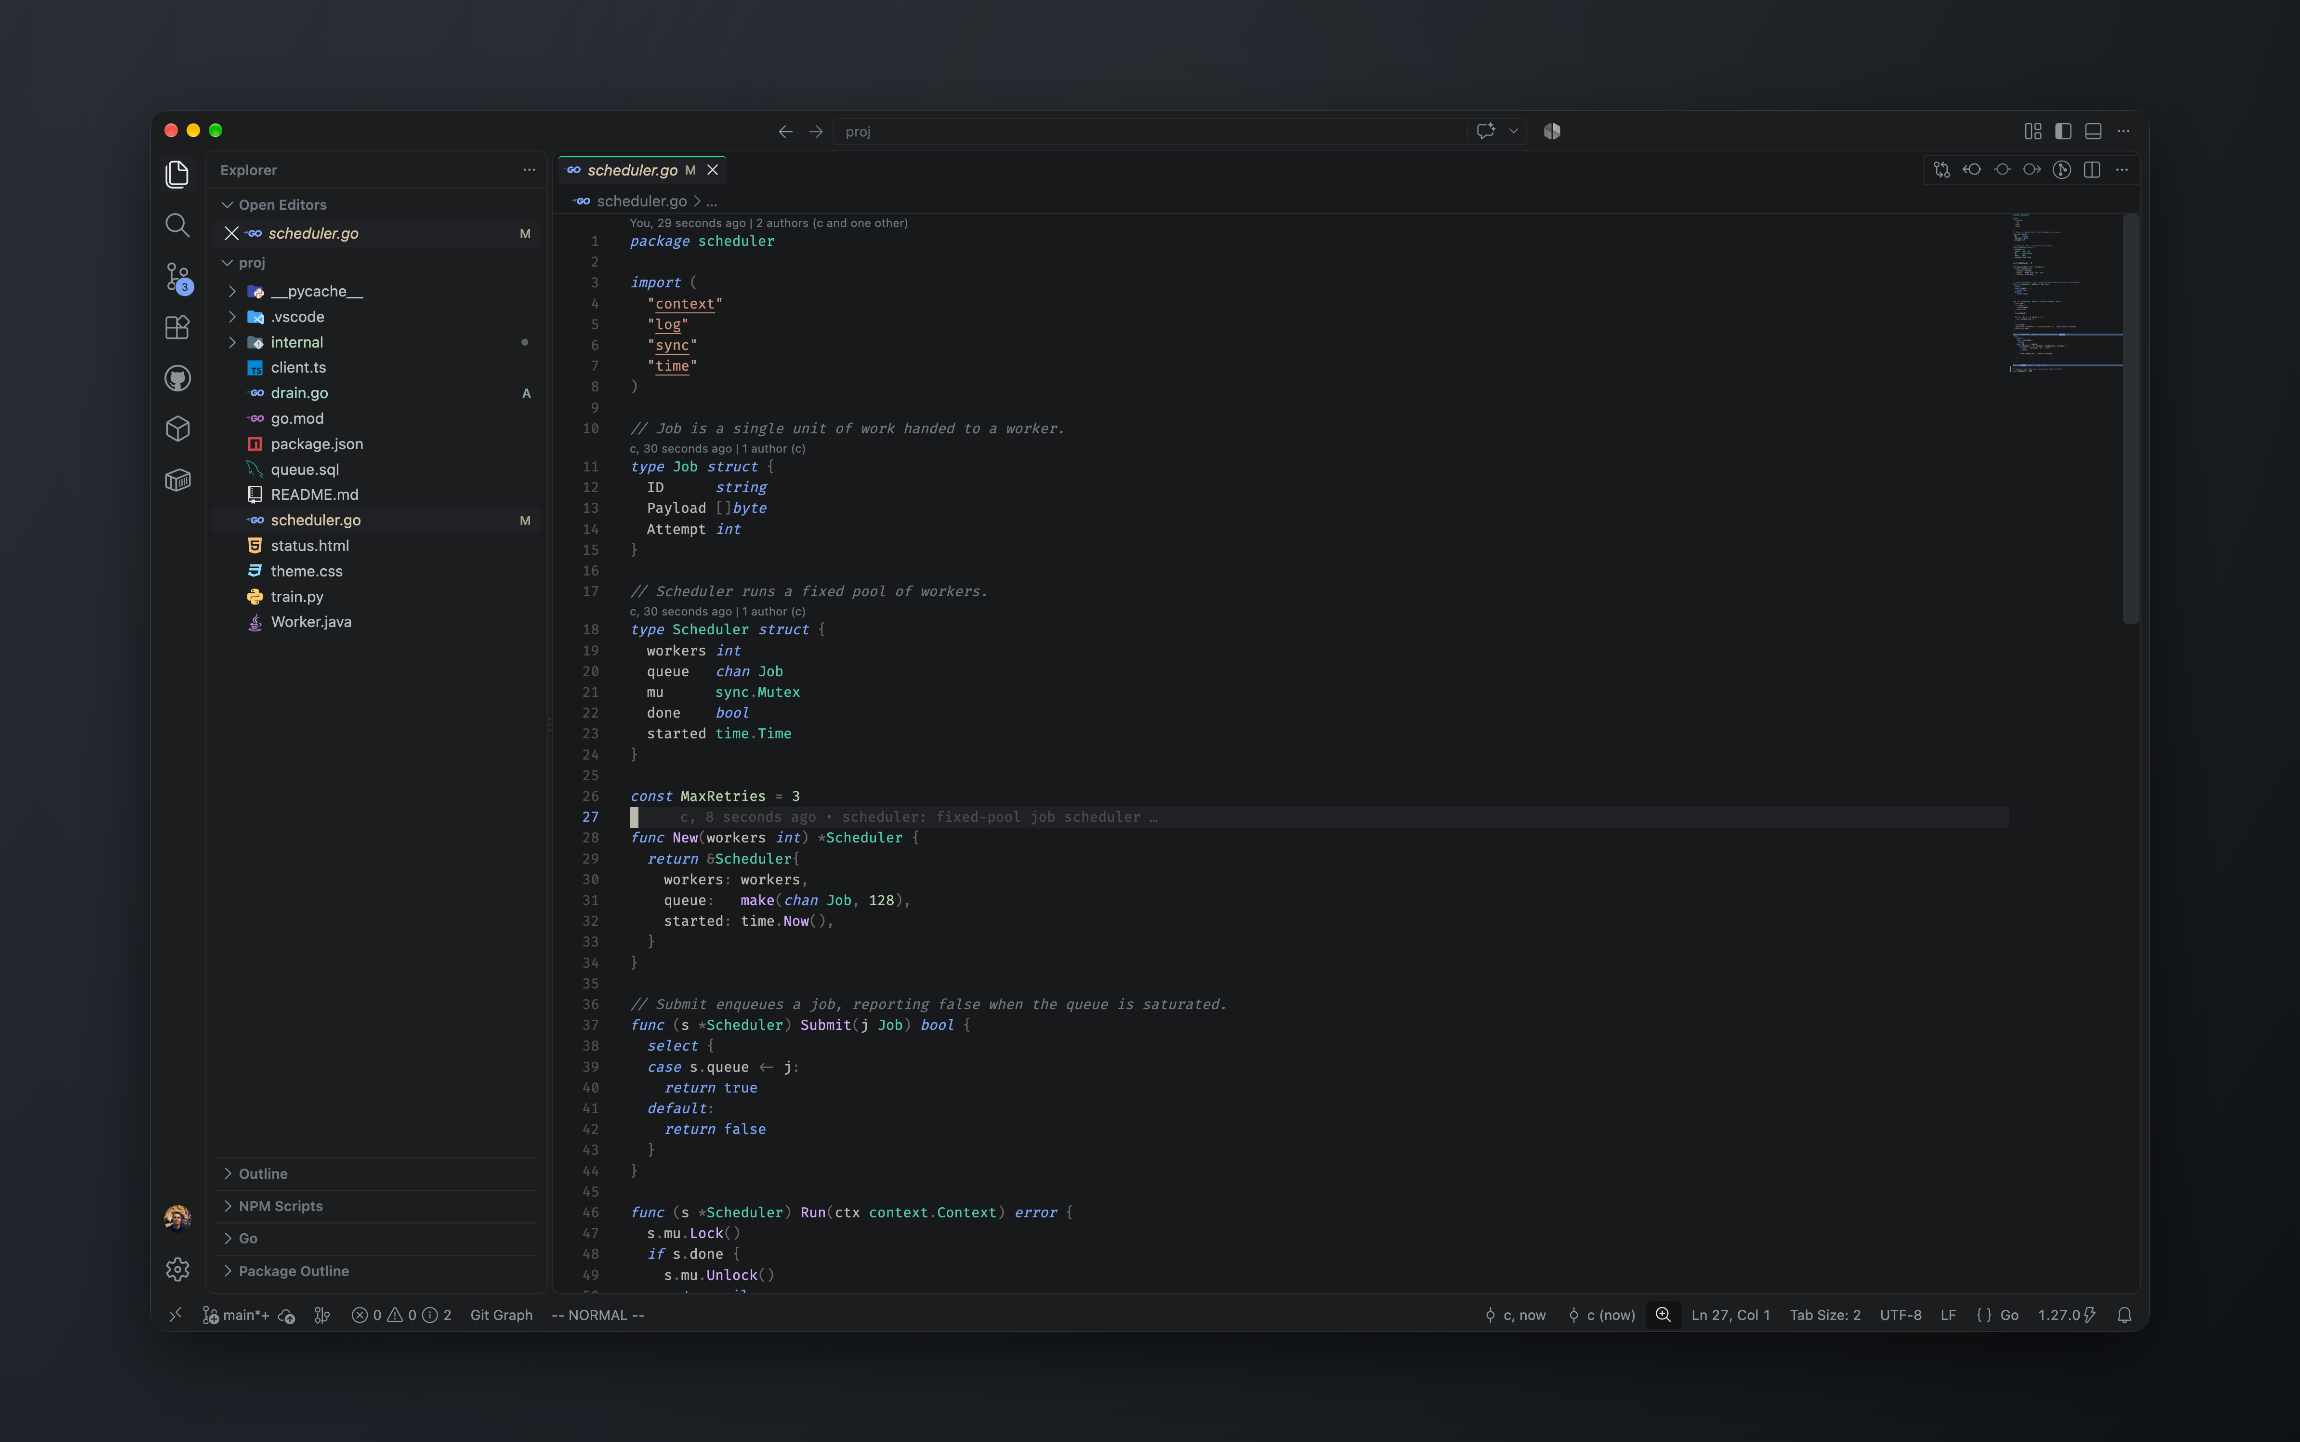
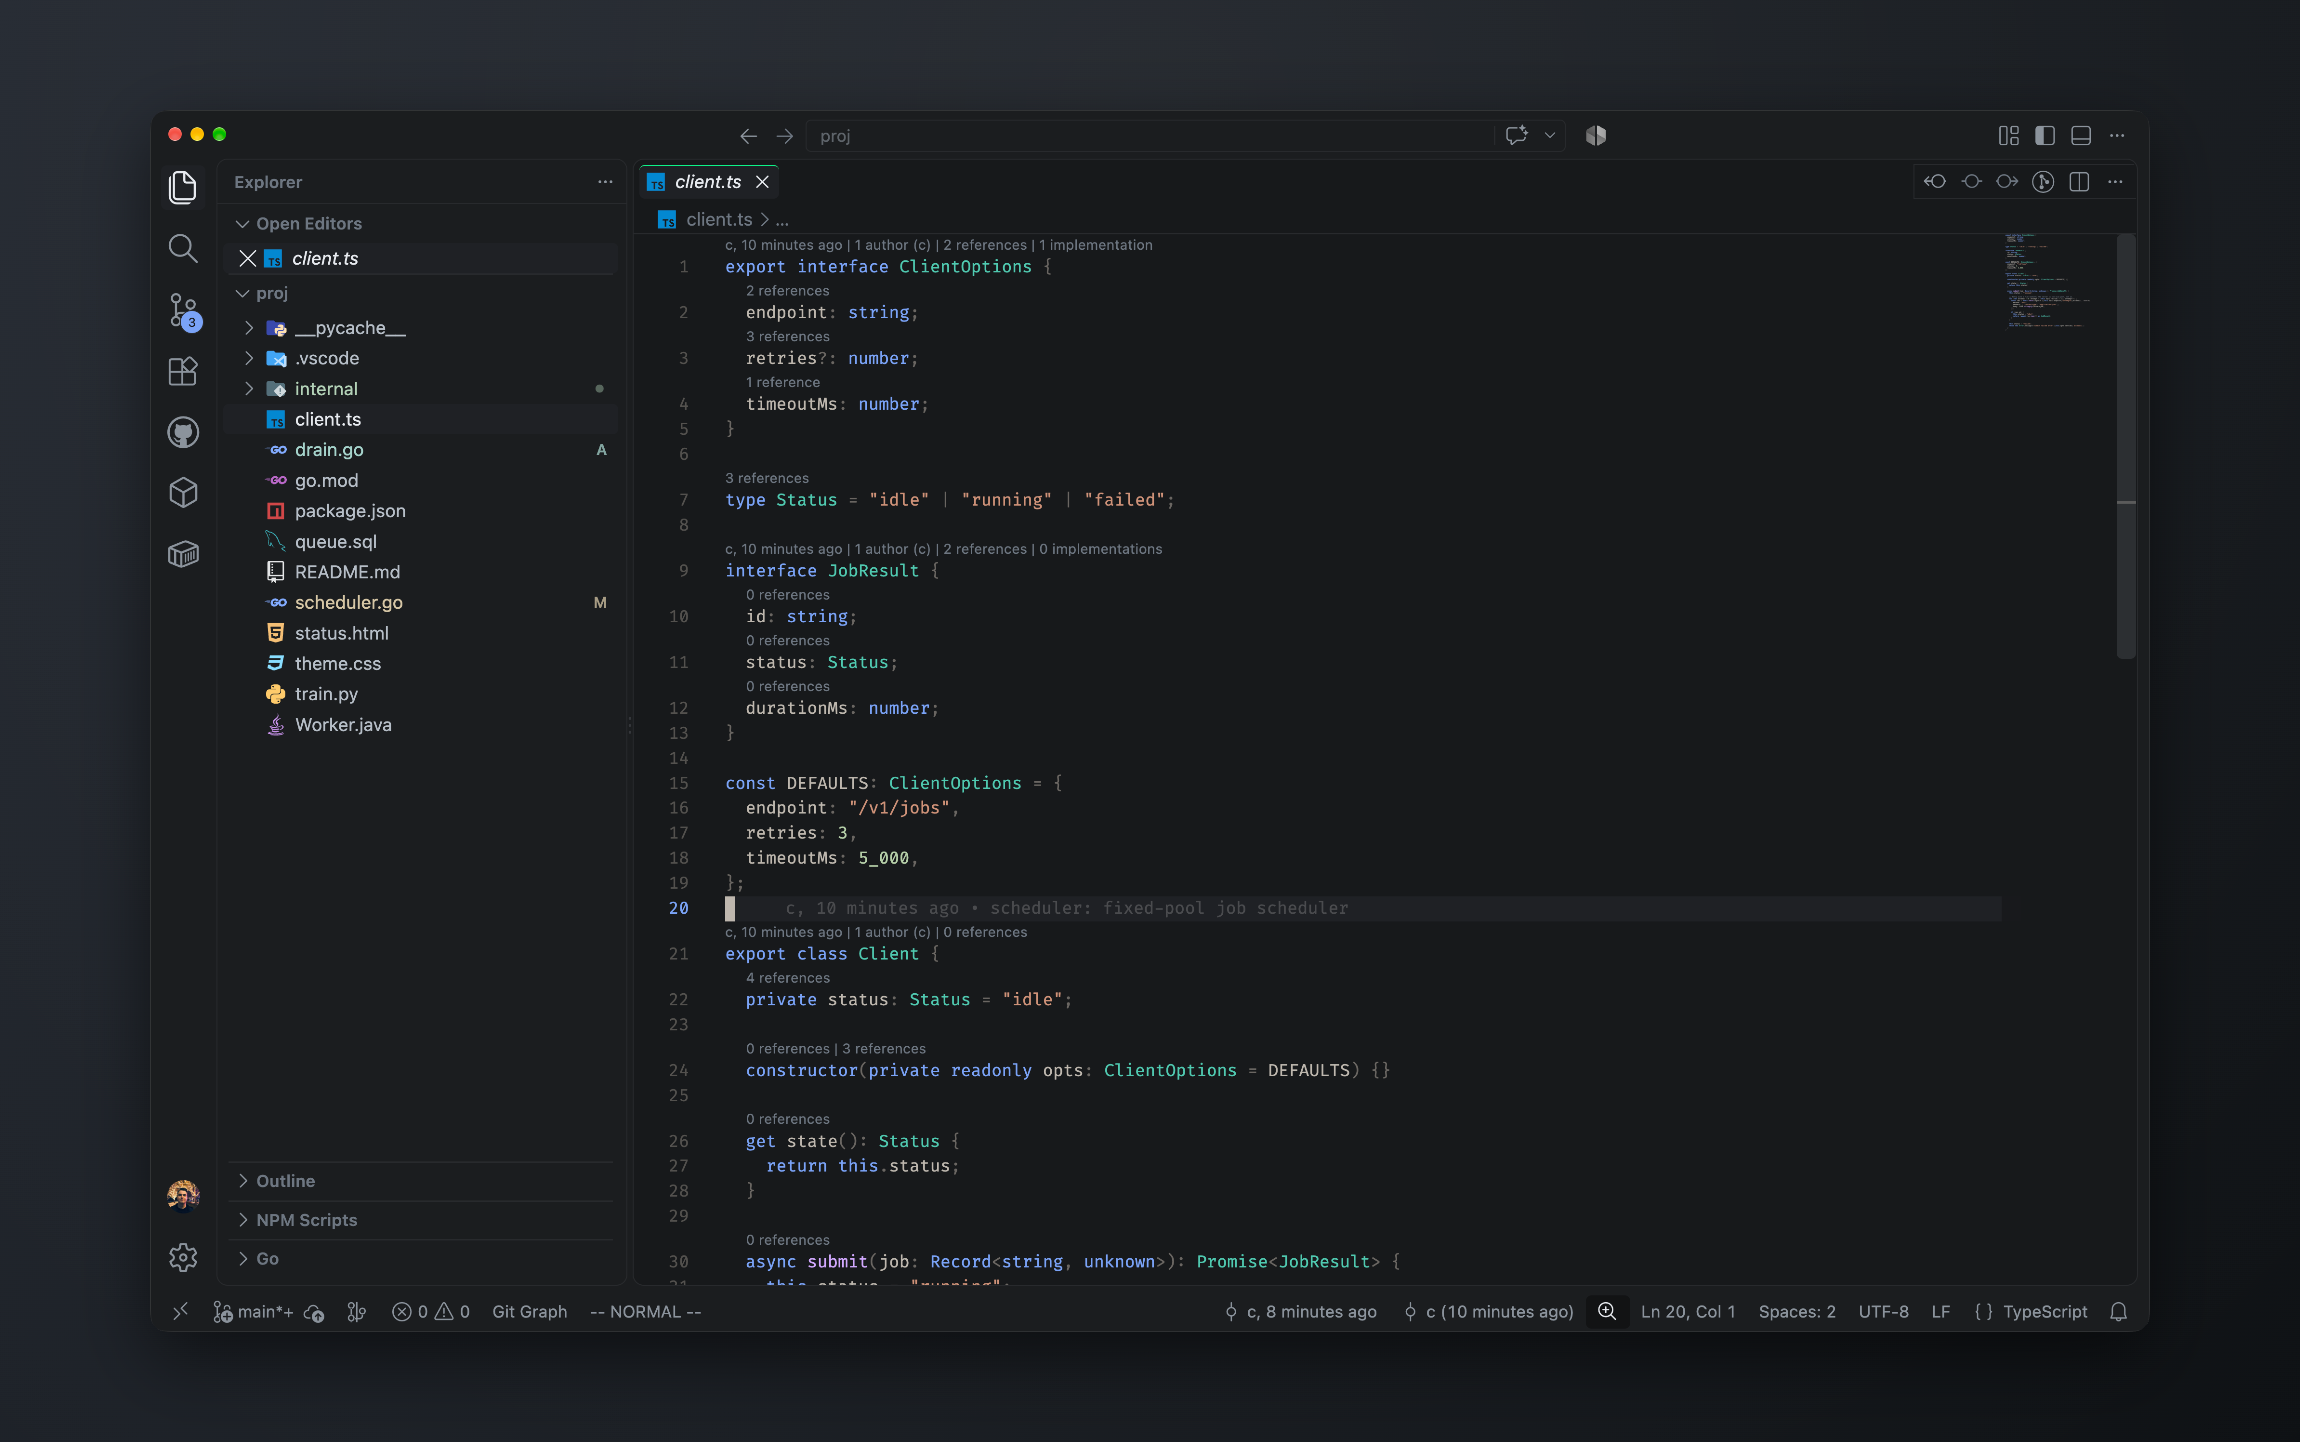
Screenshots without the italic override
Recaptured after removing the One Dark italic tokenColorCustomizations
from user settings, so the images now match the theme's no-italics rule.

Deep/Flat inversion verified in the pixels: Deep is #17191B editor on
#1B1D1F chrome, Flat is the exact reverse. Paper's editor background is
exact; its chrome sits 1/255 off.

Hero caption corrected -- the image shows TypeScript, not Go.

diff --git a/README.md b/README.md
@@ -15,7 +15,7 @@
 
 <br />
 
-![Chalkdraw Deep — Go](./resources/screenshots/chalkdraw-deep.png)
+![Chalkdraw Deep — TypeScript](./resources/screenshots/chalkdraw-deep.png)
 
 <br />
 
@@ -70,7 +70,7 @@ Pick a variant with `chalkdraw-deep`, `chalkdraw-flat` or `chalkdraw-paper`. Tre
 
 ## Screenshots
 
-**Flat — the same two greys, inverted**
+**Flat — the same two greys, swapped between editor and panels**
 
 ![Chalkdraw Flat](./resources/screenshots/chalkdraw-flat.png)
 
